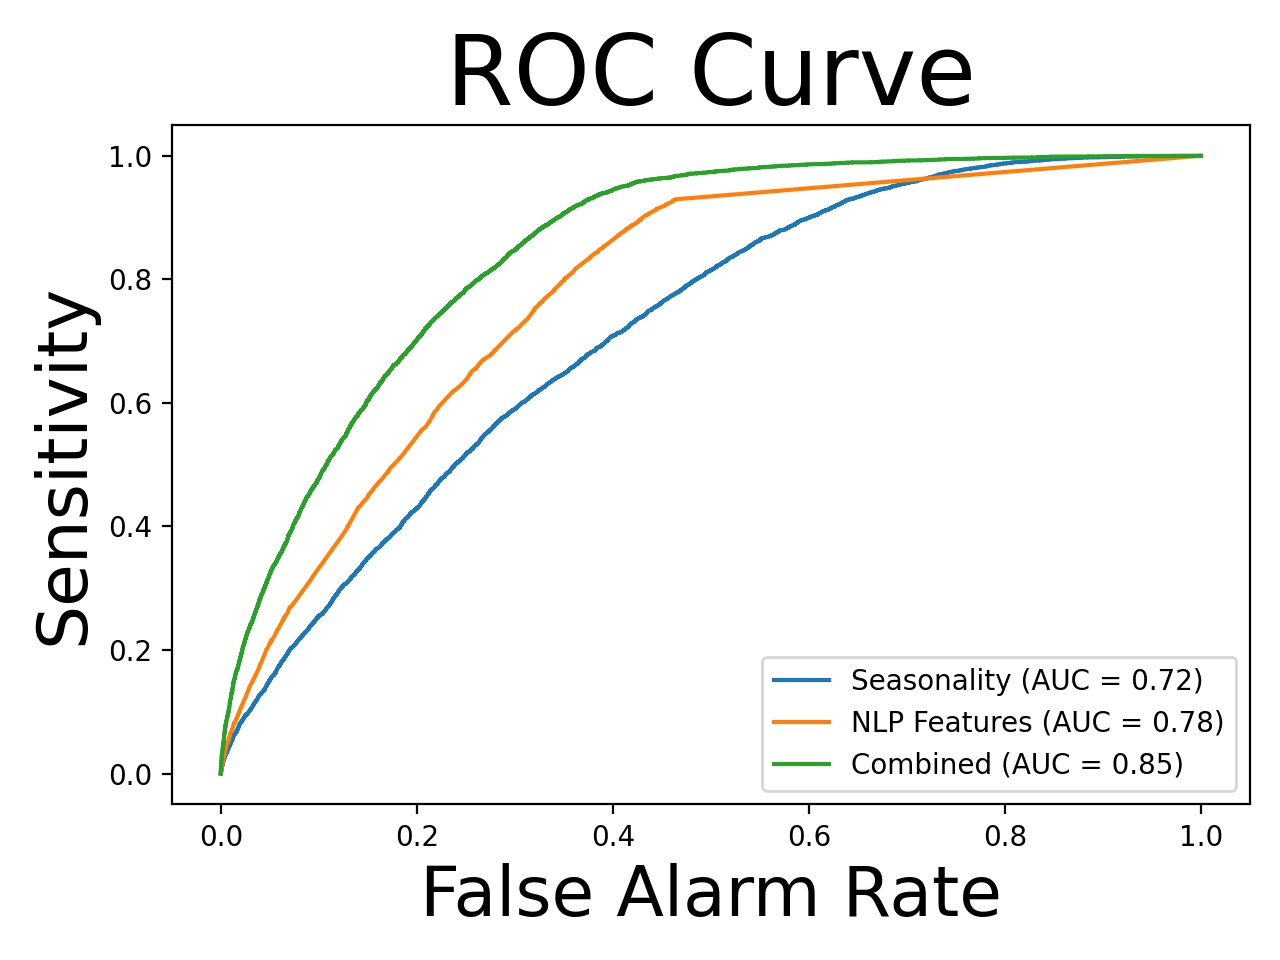
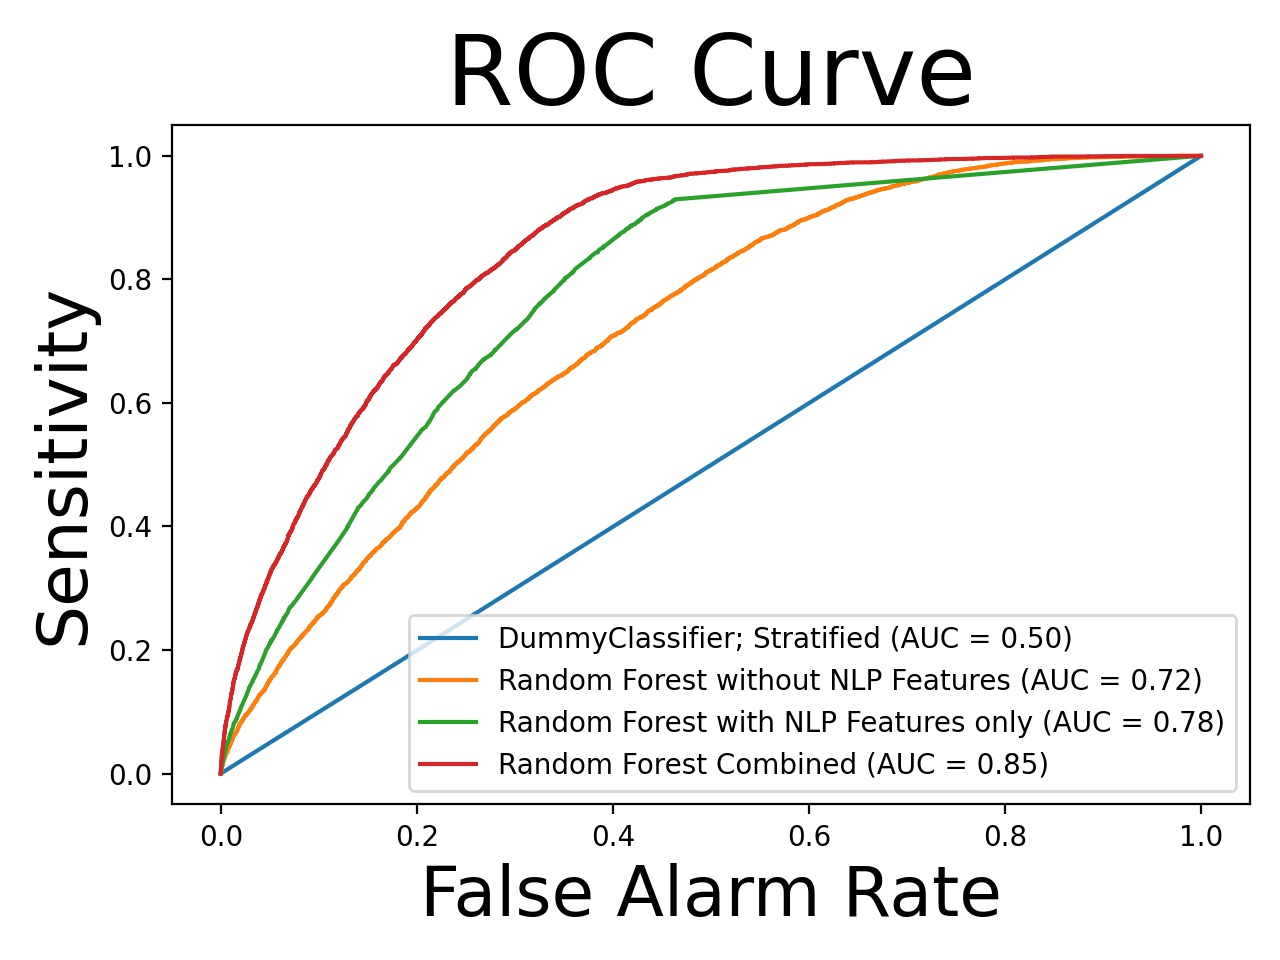
update for PR Curve

diff --git a/src/validation.py b/src/validation.py
@@ -5,6 +5,7 @@ from matplotlib import rcParams
 rcParams.update({'figure.autolayout': True})
 from sklearn import linear_model
 from sklearn import metrics
+from sklearn.dummy import DummyClassifier
 from joblib import dump, load
 from sklearn.base import clone 
 from sklearn import model_selection
@@ -66,17 +67,28 @@ if __name__ == "__main__":
     modelFull = load("../data/best_model_08_08_full_conf.gz")
 
     print("Data Imported")
+    print("\n\n\n\n\n")
     
+    
+    string = '''
+    Get Baseline Model
+    '''
+    print(string)
+    model_baseline = DummyClassifier(strategy="stratified", constant=True)
+    model_baseline.fit(X_test_confid_full, y_test_confid)
+
     string = '''
     Get ROC Curve
     ''' 
     print(string)
+    roc_display = metrics.plot_roc_curve(model_baseline, X_test_confid_full, y_test_confid, 
+        name="DummyClassifier; Stratified")
     roc_display = metrics.plot_roc_curve(model, X_test_confid_orig, y_test_confid, 
-        name = "Seasonality")
+        ax=roc_display.ax_, name = "Random Forest without NLP Features")
     roc_display = metrics.plot_roc_curve(modelPart, X_test_confid_part, y_test_confid, 
-        ax=roc_display.ax_, name = "NLP Features")
+        ax=roc_display.ax_, name = "Random Forest with NLP Features only")
     roc_display = metrics.plot_roc_curve(modelFull, X_test_confid_full, y_test_confid, 
-        ax=roc_display.ax_, name="Combined")
+        ax=roc_display.ax_, name="Random Forest Combined")
     roc_display.ax_.set_title("ROC Curve", fontsize=35)
     roc_display.ax_.set_xlabel("False Alarm Rate", fontsize=25)
     roc_display.ax_.set_ylabel("Sensitivity", fontsize=25)
@@ -89,15 +101,18 @@ if __name__ == "__main__":
     GET PR Curve
     '''
     print(string)
+    pr_display = metrics.plot_precision_recall_curve(model_baseline, X_test_confid_full, y_test_confid,
+        name="Dummy Classifier; Stratified")
     pr_display = metrics.plot_precision_recall_curve(model, X_test_confid_orig, y_test_confid, 
-        name = "Seasonality")
+        ax = pr_display.ax_, name = "Random Forest without NLP Features")
     pr_display = metrics.plot_precision_recall_curve(modelPart, X_test_confid_part, y_test_confid, 
-        ax=roc_display.ax_, name = "NLP Features")
+        ax=pr_display.ax_, name = "Random Forest with NLP Features only")
     pr_display = metrics.plot_precision_recall_curve(modelFull, X_test_confid_full, y_test_confid, 
-        ax=roc_display.ax_, name="Combined")
+        ax=pr_display.ax_, name="Random Forest Combined")
     pr_display.ax_.set_title("Precision/Recall Curve", fontsize=35)
     pr_display.ax_.set_xlabel("Recall", fontsize=25)
     pr_display.ax_.set_ylabel("Precision", fontsize=25)
+    plt.legend()
     plt.show()
     if save:
         pr_display.figure_.savefig("../img/PrecRec.jpg")
